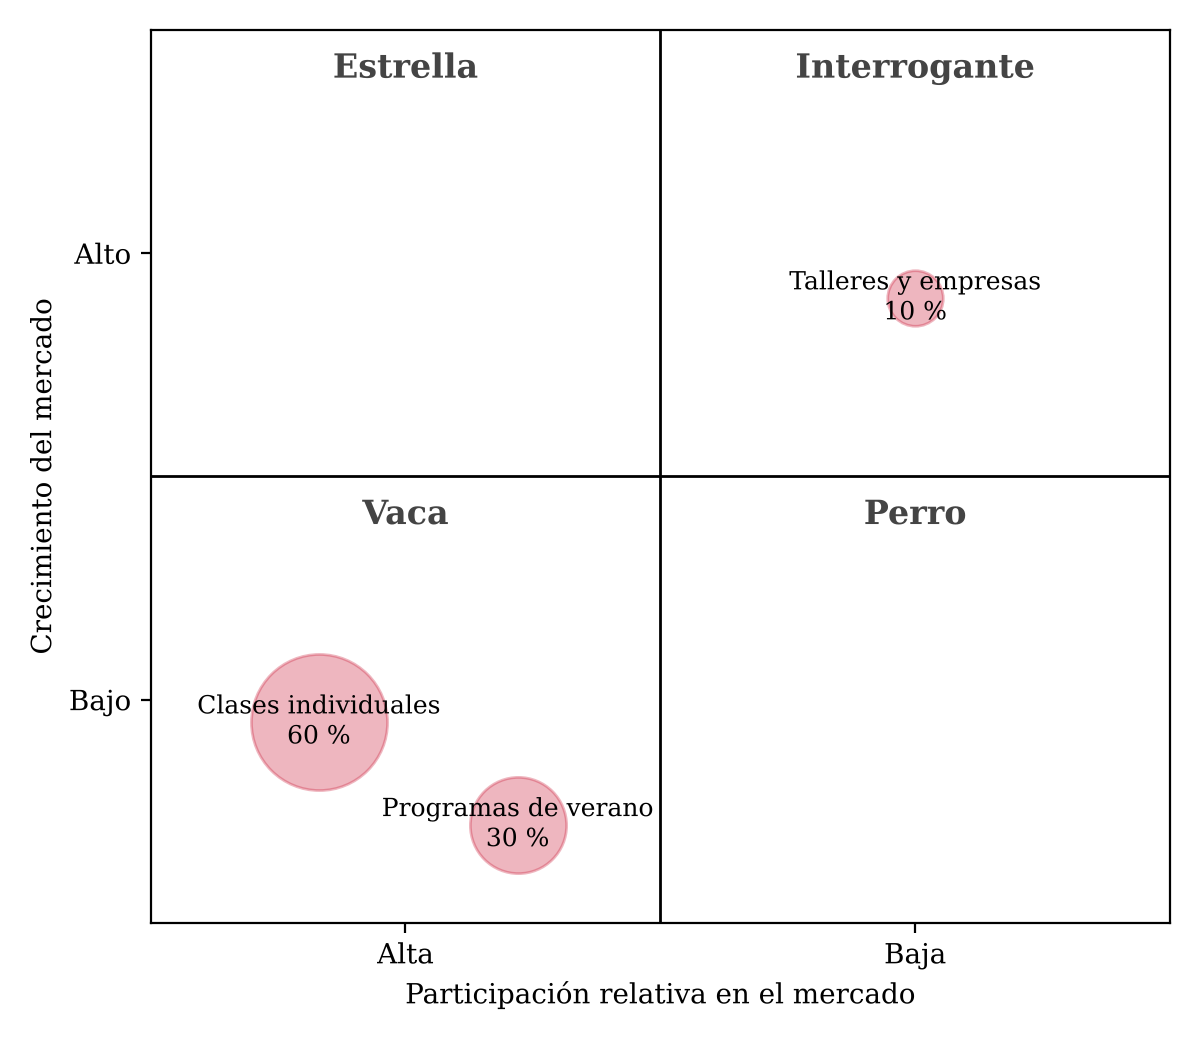
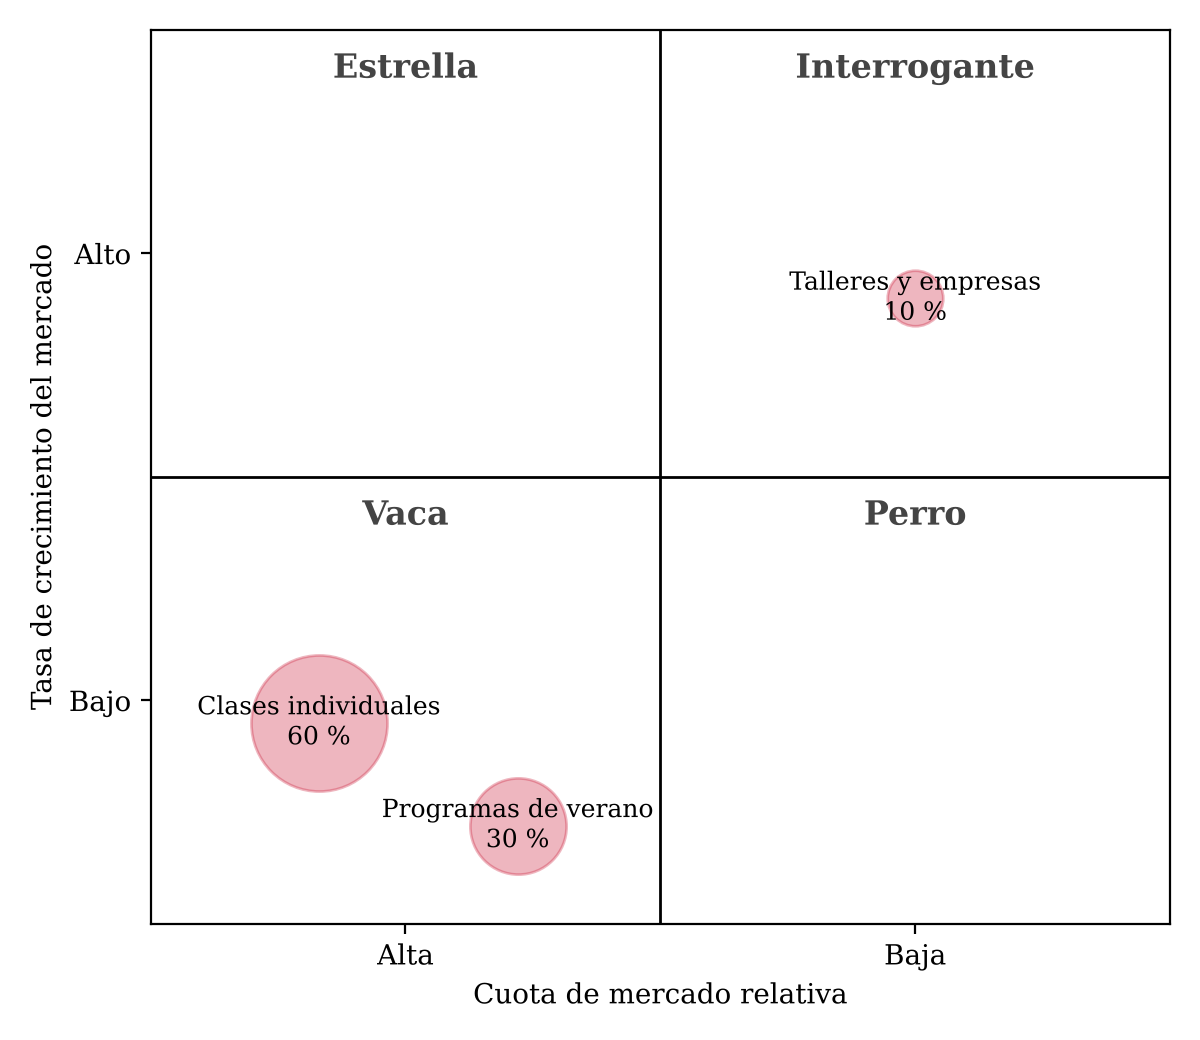
APF2: parte 3, Matriz de Decisión y MCPE; gráficos al estilo de clase
Claude-Session: https://claude.ai/code/session_01F66vmyeexcEtQbfyDLUxrC

diff --git a/APF2/scripts/figuras.py b/APF2/scripts/figuras.py
@@ -14,9 +14,13 @@ for x, y, t in [(-3, 4.5, 'Conservador'), (3, 4.5, 'Agresivo'), (-3, -4.5, 'Defe
 ax.fill([0, 3.5, 0, -3.33], [4.40, 0, -3.33, 0], color='#c8102e', alpha=0.08)
 ax.plot([0, 3.5, 0, -3.33, 0], [4.40, 0, -3.33, 0, 4.40], color='#c8102e', lw=1)
 ax.annotate('', xy=(0.17, 1.07), xytext=(0, 0), arrowprops=dict(arrowstyle='-|>', color='#1f3b73', lw=2.2))
-ax.text(0.35, 1.15, '0.17 ; 1.07', fontsize=10, color='#1f3b73')
-ax.text(0.15, 5.6, 'FF', fontsize=10); ax.text(0.15, -5.8, 'EE', fontsize=10)
-ax.text(5.3, 0.2, 'FI', fontsize=10); ax.text(-5.9, 0.2, 'VC', fontsize=10)
+ax.plot([0.17, 0.17], [0, 1.07], ls='--', color='#c8102e', lw=1)
+ax.plot([0, 0.17], [1.07, 1.07], ls='--', color='#c8102e', lw=1)
+ax.text(0.35, 1.15, '(0.17, 1.07)', fontsize=10, color='#1f3b73')
+ax.text(0.15, 5.45, 'Fortaleza financiera FF\nAlto', fontsize=9)
+ax.text(0.15, -5.85, 'Estabilidad del entorno EE\nBajo', fontsize=9)
+ax.text(5.9, 0.25, 'Fortaleza de la\nindustria FI · Alto', fontsize=9, ha='right')
+ax.text(-5.9, 0.25, 'Ventaja\ncompetitiva VC · Bajo', fontsize=9)
 fig.tight_layout(); fig.savefig('figuras/peyea.png', dpi=200)
 
 # BCG
@@ -25,7 +29,7 @@ ax.set_xlim(0, 2); ax.set_ylim(0, 2)
 ax.axhline(1, color='black', lw=1); ax.axvline(1, color='black', lw=1)
 ax.set_xticks([0.5, 1.5]); ax.set_xticklabels(['Alta', 'Baja'])
 ax.set_yticks([0.5, 1.5]); ax.set_yticklabels(['Bajo', 'Alto'])
-ax.set_xlabel('Participación relativa en el mercado'); ax.set_ylabel('Crecimiento del mercado')
+ax.set_xlabel('Cuota de mercado relativa'); ax.set_ylabel('Tasa de crecimiento del mercado')
 for x, y, t in [(0.5, 1.95, 'Estrella'), (1.5, 1.95, 'Interrogante'), (0.5, 0.95, 'Vaca'), (1.5, 0.95, 'Perro')]:
     ax.text(x, y, t, ha='center', va='top', fontsize=12, weight='bold', color='#444')
 for x, y, s, t in [(0.33, 0.45, 60, 'Clases individuales\n60 %'), (0.72, 0.22, 30, 'Programas de verano\n30 %'), (1.5, 1.4, 10, 'Talleres y empresas\n10 %')]:

diff --git a/APF2/scripts/tabla_mcpe.py b/APF2/scripts/tabla_mcpe.py
@@ -1,0 +1,26 @@
+import sys
+import os; sys.path.insert(0, os.path.dirname(os.path.abspath(__file__)))
+from mcpe import F, E
+N = {
+ 'O1':'Alta conectividad de los hogares','O2':'Bajo logro de los escolares en matemática',
+ 'O3':'Posible mejora de la economía de las familias','O4':'Empresas que buscan educación financiera y apoyo educativo',
+ 'O5':'Tecnologías digitales e inteligencia artificial','A1':'Posible alza de precios y de costos',
+ 'A2':'Riesgo de fenómenos climáticos','A3':'Cambios de gobierno y nuevas normas',
+ 'A4':'Normas de protección de datos de menores','A5':'Competencia de bajo costo y sustitutos gratuitos',
+ 'A6':'Disputa por docentes calificados','F1':'Enseñanza personalizada 1 a 1',
+ 'F2':'Trayectoria y marca conocida','F3':'Experiencia en clases 100 % virtuales',
+ 'F4':'Seguimiento y comunicación con los padres','F5':'Oferta variada de servicios',
+ 'F6':'Cultura de innovación y mejora de procesos','D1':'Dependencia de los profesores',
+ 'D2':'Faltas, tardanzas y cámara apagada','D3':'Malas prácticas de algunos docentes',
+ 'D4':'Desorden en el área comercial','D5':'Falta de inscripciones','D6':'Datos e inteligencia artificial en proceso',
+}
+G = {'O':'Oportunidades','A':'Amenazas','F':'Fortalezas','D':'Debilidades'}
+h = '| Factor clave | Peso | ' + ' | '.join(f'{e} PA | {e} TPA' for e in E) + ' |'
+print(h); print('|' + '---|' * (2 + 2 * len(E)))
+tot = [0] * len(E); last = None
+for c, w, pa in F:
+    if c[0] != last:
+        print(f'| **{G[c[0]]}** |' + ' |' * (1 + 2 * len(E))); last = c[0]
+    print(f'| {c}. {N[c]} | {w:.2f} | ' + ' | '.join(f'{p} | {w*p:.2f}' for p in pa) + ' |')
+    for i, p in enumerate(pa): tot[i] += w * p
+print('| **Total** | **2.00** | ' + ' | '.join(f' | **{t:.2f}**' for t in tot) + ' |')

diff --git a/APF2/scripts/mcpe.py b/APF2/scripts/mcpe.py
@@ -1,0 +1,21 @@
+# Pesos de la MEFE y la MEFI del APF1. PA por estrategia: E1, E2, E4, E5, E7, E10
+F = [
+ ('O1',0.10,[3,4,2,1,2,3]),('O2',0.12,[4,3,2,3,3,3]),('O3',0.07,[3,2,2,1,2,4]),
+ ('O4',0.08,[2,2,3,1,2,3]),('O5',0.08,[2,4,3,4,1,1]),
+ ('A1',0.08,[2,3,2,1,2,4]),('A2',0.05,[2,1,1,3,2,2]),('A3',0.05,[3,2,1,2,2,2]),
+ ('A4',0.08,[2,1,2,3,2,2]),('A5',0.15,[3,3,2,3,4,4]),('A6',0.14,[2,1,1,4,2,3]),
+ ('F1',0.12,[4,3,2,3,4,2]),('F2',0.06,[3,3,2,2,4,2]),('F3',0.10,[3,4,2,3,2,3]),
+ ('F4',0.08,[4,2,3,3,4,3]),('F5',0.06,[4,2,3,1,2,4]),('F6',0.06,[2,4,3,4,1,2]),
+ ('D1',0.11,[2,1,1,4,2,3]),('D2',0.11,[1,1,1,4,1,2]),('D3',0.08,[2,1,1,4,1,2]),
+ ('D4',0.09,[2,3,4,1,3,2]),('D5',0.08,[4,4,4,2,3,3]),('D6',0.05,[1,3,3,4,1,1]),
+]
+E = ['E1','E2','E4','E5','E7','E10']
+assert abs(sum(w for _,w,_ in F)-2)<1e-9
+for c,w,pa in F:
+    assert len(set(pa))>1, c
+if __name__ == '__main__':
+    tot=[0]*6
+    for c,w,pa in F:
+        print(c, w, ' '.join(f'{p} {w*p:.2f}' for p in pa))
+        for i,p in enumerate(pa): tot[i]+=w*p
+    print('TOTAL', ' '.join(f'{e}={t:.2f}' for e,t in zip(E,tot)))

diff --git a/APF2/parte3_mde_mcpe.md b/APF2/parte3_mde_mcpe.md
@@ -1,0 +1,93 @@
+# APF2 · Parte 3 · Borrador para validar
+
+## 3.5. Matriz de Decisión Estratégica (MDE)
+
+La Matriz de Decisión junta las estrategias que salieron de las matrices anteriores y cuenta cuántas veces aparece cada una. Las que se repiten más tienen más respaldo, porque varias herramientas llegan a la misma conclusión (David, 2017). Me quedo con las que aparecen tres veces o más. Las demás quedan como estrategias de contingencia, para usarlas si las primeras no funcionan o si cambia el entorno.
+
+**Tabla 16**
+*Matriz de Decisión Estratégica de MatLab Perú*
+
+| Cód. | Estrategia | Tipo | FODA | MIE | PEYEA | BCG | Total |
+|---|---|---|---|---|---|---|---|
+| E1 | Crear programas de nivelación en matemática por grado escolar | Desarrollo de productos | X | X | X | X | **4** |
+| E2 | Captar alumnos con campañas en redes y un examen de diagnóstico gratuito | Penetración de mercado | X | X | X | X | **4** |
+| E10 | Ofrecer clases en grupos de tres o cuatro alumnos | Desarrollo de productos | X | X | X | X | **4** |
+| E4 | Reordenar el área comercial en el CRM | Penetración de mercado | X | X | X | | **3** |
+| E5 | Medir y premiar el cumplimiento de los profesores | Interna, calidad total | X | | X | X | **3** |
+| E7 | Destacar el profesor fijo, el asesor académico y el reporte a los padres | Diferenciación | X | X | | X | **3** |
+| E3 | Llegar a familias de otras ciudades | Desarrollo de mercados | X | | X | | 2 |
+| E6 | Hacer alianzas con colegios y empresas | Alianza estratégica | X | | | X | 2 |
+| E8 | Crear una línea de carrera para los profesores | Interna, recursos humanos | X | | | | 1 |
+| E9 | Armar un grupo de profesores suplentes | Interna, recursos humanos | X | | | | 1 |
+
+*Nota.* Elaboración propia. Se retienen las estrategias con tres repeticiones o más.
+
+Quedan seis estrategias retenidas: E1, E2, E10, E4, E5 y E7. Las seis van con el objetivo. E1, E2, E4, E7 y E10 apuntan a tener más alumnos, y E5 apunta a que los profesores cumplan.
+
+E3, E6, E8 y E9 quedan como contingencia. E3 es buena idea, pero hoy cerca del 90 % de los alumnos son de Lima y primero conviene crecer donde la marca ya se conoce. E6 depende de reactivar la línea para empresas, que está en pausa. E8 y E9 ayudan al cumplimiento, pero E5 ya lo ataca de forma más directa. Si E5 no basta, E9 sería la primera en activarse.
+
+## 3.6. Matriz cuantitativa del planeamiento estratégico (MCPE)
+
+La MCPE califica qué tan atractiva es cada estrategia frente a cada factor de la MEFE y la MEFI, con los mismos pesos (David, 2017). Por eso la suma de pesos es 2.00. Para cada factor me pregunté si cambia la elección entre estrategias, y le puse a cada una un puntaje de atractivo, PA, de 1 a 4. El 1 es nada atractiva, el 2 algo atractiva, el 3 atractiva y el 4 muy atractiva. Luego multipliqué el peso por el PA y obtuve el TPA. El total puede ir de 2 a 8, y un total de 5 o más indica una estrategia aceptable.
+
+Los puntajes los puse yo, a partir del diagnóstico y de lo que conozco de la empresa.
+
+**Tabla 17**
+*Matriz cuantitativa del planeamiento estratégico de MatLab Perú*
+
+| Factor clave | Peso | E1 PA | E1 TPA | E2 PA | E2 TPA | E4 PA | E4 TPA | E5 PA | E5 TPA | E7 PA | E7 TPA | E10 PA | E10 TPA |
+|---|---|---|---|---|---|---|---|---|---|---|---|---|---|
+| **Oportunidades** | | | | | | | | | | | | | |
+| O1. Alta conectividad de los hogares | 0.10 | 3 | 0.30 | 4 | 0.40 | 2 | 0.20 | 1 | 0.10 | 2 | 0.20 | 3 | 0.30 |
+| O2. Bajo logro de los escolares en matemática | 0.12 | 4 | 0.48 | 3 | 0.36 | 2 | 0.24 | 3 | 0.36 | 3 | 0.36 | 3 | 0.36 |
+| O3. Posible mejora de la economía de las familias | 0.07 | 3 | 0.21 | 2 | 0.14 | 2 | 0.14 | 1 | 0.07 | 2 | 0.14 | 4 | 0.28 |
+| O4. Empresas que buscan educación financiera y apoyo educativo | 0.08 | 2 | 0.16 | 2 | 0.16 | 3 | 0.24 | 1 | 0.08 | 2 | 0.16 | 3 | 0.24 |
+| O5. Tecnologías digitales e inteligencia artificial | 0.08 | 2 | 0.16 | 4 | 0.32 | 3 | 0.24 | 4 | 0.32 | 1 | 0.08 | 1 | 0.08 |
+| **Amenazas** | | | | | | | | | | | | | |
+| A1. Posible alza de precios y de costos | 0.08 | 2 | 0.16 | 3 | 0.24 | 2 | 0.16 | 1 | 0.08 | 2 | 0.16 | 4 | 0.32 |
+| A2. Riesgo de fenómenos climáticos | 0.05 | 2 | 0.10 | 1 | 0.05 | 1 | 0.05 | 3 | 0.15 | 2 | 0.10 | 2 | 0.10 |
+| A3. Cambios de gobierno y nuevas normas | 0.05 | 3 | 0.15 | 2 | 0.10 | 1 | 0.05 | 2 | 0.10 | 2 | 0.10 | 2 | 0.10 |
+| A4. Normas de protección de datos de menores | 0.08 | 2 | 0.16 | 1 | 0.08 | 2 | 0.16 | 3 | 0.24 | 2 | 0.16 | 2 | 0.16 |
+| A5. Competencia de bajo costo y sustitutos gratuitos | 0.15 | 3 | 0.45 | 3 | 0.45 | 2 | 0.30 | 3 | 0.45 | 4 | 0.60 | 4 | 0.60 |
+| A6. Disputa por docentes calificados | 0.14 | 2 | 0.28 | 1 | 0.14 | 1 | 0.14 | 4 | 0.56 | 2 | 0.28 | 3 | 0.42 |
+| **Fortalezas** | | | | | | | | | | | | | |
+| F1. Enseñanza personalizada 1 a 1 | 0.12 | 4 | 0.48 | 3 | 0.36 | 2 | 0.24 | 3 | 0.36 | 4 | 0.48 | 2 | 0.24 |
+| F2. Trayectoria y marca conocida | 0.06 | 3 | 0.18 | 3 | 0.18 | 2 | 0.12 | 2 | 0.12 | 4 | 0.24 | 2 | 0.12 |
+| F3. Experiencia en clases 100 % virtuales | 0.10 | 3 | 0.30 | 4 | 0.40 | 2 | 0.20 | 3 | 0.30 | 2 | 0.20 | 3 | 0.30 |
+| F4. Seguimiento y comunicación con los padres | 0.08 | 4 | 0.32 | 2 | 0.16 | 3 | 0.24 | 3 | 0.24 | 4 | 0.32 | 3 | 0.24 |
+| F5. Oferta variada de servicios | 0.06 | 4 | 0.24 | 2 | 0.12 | 3 | 0.18 | 1 | 0.06 | 2 | 0.12 | 4 | 0.24 |
+| F6. Cultura de innovación y mejora de procesos | 0.06 | 2 | 0.12 | 4 | 0.24 | 3 | 0.18 | 4 | 0.24 | 1 | 0.06 | 2 | 0.12 |
+| **Debilidades** | | | | | | | | | | | | | |
+| D1. Dependencia de los profesores | 0.11 | 2 | 0.22 | 1 | 0.11 | 1 | 0.11 | 4 | 0.44 | 2 | 0.22 | 3 | 0.33 |
+| D2. Faltas, tardanzas y cámara apagada | 0.11 | 1 | 0.11 | 1 | 0.11 | 1 | 0.11 | 4 | 0.44 | 1 | 0.11 | 2 | 0.22 |
+| D3. Malas prácticas de algunos docentes | 0.08 | 2 | 0.16 | 1 | 0.08 | 1 | 0.08 | 4 | 0.32 | 1 | 0.08 | 2 | 0.16 |
+| D4. Desorden en el área comercial | 0.09 | 2 | 0.18 | 3 | 0.27 | 4 | 0.36 | 1 | 0.09 | 3 | 0.27 | 2 | 0.18 |
+| D5. Falta de inscripciones | 0.08 | 4 | 0.32 | 4 | 0.32 | 4 | 0.32 | 2 | 0.16 | 3 | 0.24 | 3 | 0.24 |
+| D6. Datos e inteligencia artificial en proceso | 0.05 | 1 | 0.05 | 3 | 0.15 | 3 | 0.15 | 4 | 0.20 | 1 | 0.05 | 1 | 0.05 |
+| **Total** | **2.00** |  | **5.29** |  | **4.94** |  | **4.21** |  | **5.48** |  | **4.73** |  | **5.40** |
+
+*Nota.* Elaboración propia. PA es el puntaje de atractivo y TPA es el peso por el PA. E1 es nivelación por grado, E2 campañas con diagnóstico gratuito, E4 orden del área comercial, E5 cumplimiento de los profesores, E7 diferenciación en la venta y E10 grupos de tres o cuatro alumnos.
+
+**Tabla 18**
+*Resultado de la MCPE*
+
+| Puesto | Cód. | Estrategia | Total | Decisión |
+|---|---|---|---|---|
+| 1 | E5 | Medir y premiar el cumplimiento de los profesores | 5.48 | Pasa a la Matriz de Ética |
+| 2 | E10 | Ofrecer clases en grupos de tres o cuatro alumnos | 5.40 | Pasa a la Matriz de Ética |
+| 3 | E1 | Crear programas de nivelación por grado escolar | 5.29 | Pasa a la Matriz de Ética |
+| 4 | E2 | Captar alumnos con campañas y examen de diagnóstico gratuito | 4.94 | Pasa a la Matriz de Ética |
+| 5 | E7 | Destacar el profesor fijo, el asesor académico y el reporte a los padres | 4.73 | Contingencia |
+| 6 | E4 | Reordenar el área comercial en el CRM | 4.21 | Contingencia |
+
+*Nota.* Elaboración propia.
+
+E5 sale primera. Es la única que ataca de frente las debilidades más pesadas, la dependencia de los profesores, sus faltas y tardanzas y las malas prácticas. También responde a la disputa por docentes, una de las amenazas con más peso. Tiene sentido que gane, porque si el profesor no cumple, ninguna otra estrategia funciona.
+
+E10 sale segunda porque responde bien a la competencia de bajo costo y al alza de precios. Da una opción más barata a las familias sin dejar el seguimiento.
+
+E1 sale tercera. Aprovecha la oportunidad con más peso, el bajo logro en matemática, y usa las dos fortalezas principales, la personalización y el seguimiento a los padres.
+
+E2 queda cuarta con 4.94, apenas debajo de 5. La mantengo porque es la que más ayuda con la falta de inscripciones y aprovecha la conectividad y la inteligencia artificial.
+
+E7 y E4 quedan como contingencia. E4 sacó el puntaje más bajo porque ordena las ventas, pero no ayuda con los problemas de los profesores, que son los que más pesan en la matriz. Aun así, el área comercial necesita orden, y E4 se puede aplicar después junto con E2.
